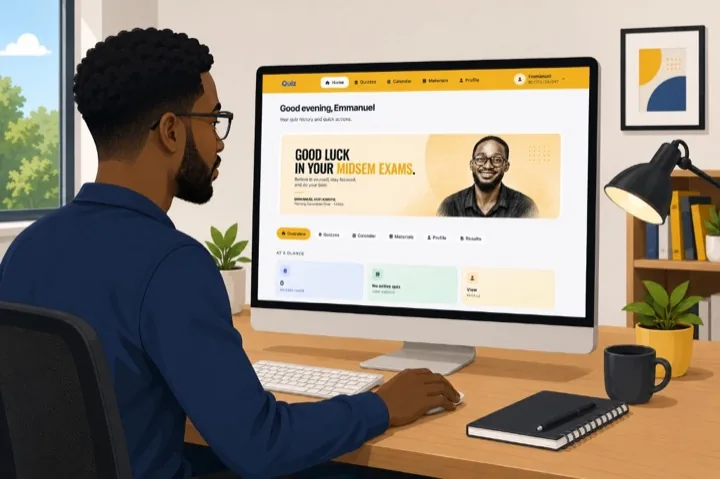
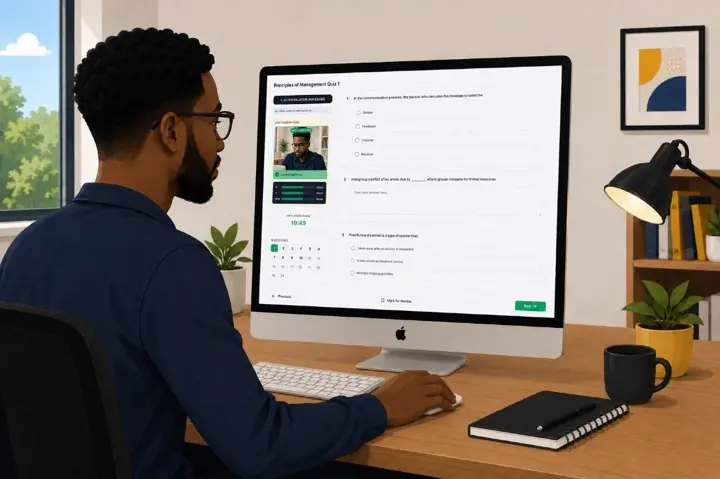
Replace landing hero with optimized quiz illustration WebP.
New hero art is served as compressed WebP only (720px desktop, 480px mobile), displayed smaller on the page, and shielded from drag-and-save.

diff --git a/resources/views/student/landing.blade.php b/resources/views/student/landing.blade.php
@@ -472,7 +472,7 @@
         position: relative;
         z-index: 1;
         width: 100%;
-        max-width: 36rem;
+        max-width: 32rem;
         margin: 0;
         border-radius: 1.375rem;
         overflow: hidden;
@@ -483,12 +483,22 @@
             0 0 0 1px rgba(255, 255, 255, 0.6) inset,
             0 24px 48px -20px rgba(245, 158, 11, 0.28);
         transition: transform 0.35s ease, box-shadow 0.35s ease;
+        user-select: none;
+        -webkit-user-select: none;
+    }
+
+    .qs-hero-photo__shield {
+        position: absolute;
+        inset: 0;
+        z-index: 2;
+        cursor: default;
     }
 
     .qs-hero-photo::after {
         content: '';
         position: absolute;
         inset: 0;
+        z-index: 3;
         border-radius: inherit;
         pointer-events: none;
         box-shadow: inset 0 1px 0 rgba(255, 255, 255, 0.65);
@@ -501,17 +511,20 @@
         aspect-ratio: 720 / 479;
         object-fit: cover;
         vertical-align: middle;
+        -webkit-user-drag: none;
+        user-drag: none;
+        pointer-events: none;
     }
 
     @media (min-width: 768px) {
         .qs-hero-visual {
             justify-content: flex-end;
             align-self: stretch;
-            min-height: 22rem;
+            min-height: 20rem;
         }
 
         .qs-hero-photo {
-            max-width: none;
+            max-width: 28rem;
             width: 100%;
         }
 
@@ -684,9 +697,9 @@
             <div class="qs-hero-visual">
                 <div class="qs-blob qs-blob-1" aria-hidden="true"></div>
                 <div class="qs-blob qs-blob-2" aria-hidden="true"></div>
-                <figure class="qs-hero-photo @if($mobileHeroImage !== '') qs-hero-photo--banner @endif">
+                <figure class="qs-hero-photo @if($mobileHeroImage !== '') qs-hero-photo--banner @endif" oncontextmenu="return false;">
                     <picture>
-                        <source media="(max-width: 767px)" srcset="{{ e($mobileHeroImage !== '' ? $mobileHeroImage : asset('images/landing/hero-student-mobile.webp')) }}">
+                        <source media="(max-width: 767px)" srcset="{{ e($mobileHeroImage !== '' ? $mobileHeroImage : asset('images/landing/hero-student-mobile.webp')) }}" type="image/webp">
                         <img
                             src="{{ asset('images/landing/hero-student.webp') }}"
                             alt="Student using {{ $appName }} for online assessments"
@@ -694,8 +707,10 @@
                             height="479"
                             loading="eager"
                             decoding="async"
-                            fetchpriority="high">
+                            fetchpriority="high"
+                            draggable="false">
                     </picture>
+                    <span class="qs-hero-photo__shield" aria-hidden="true"></span>
                 </figure>
             </div>
 